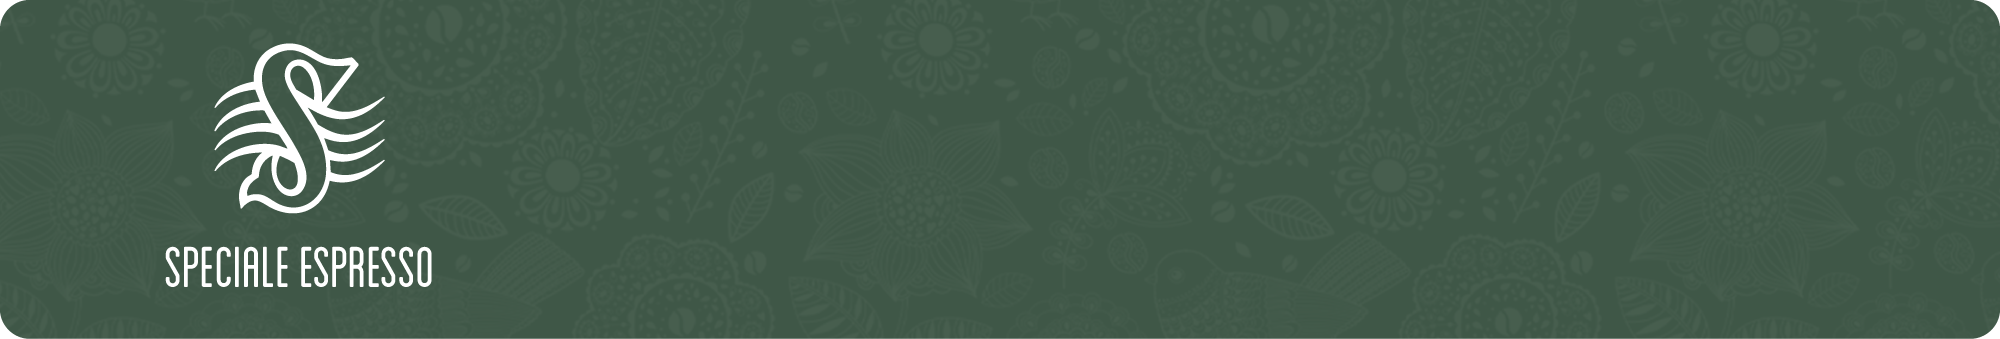
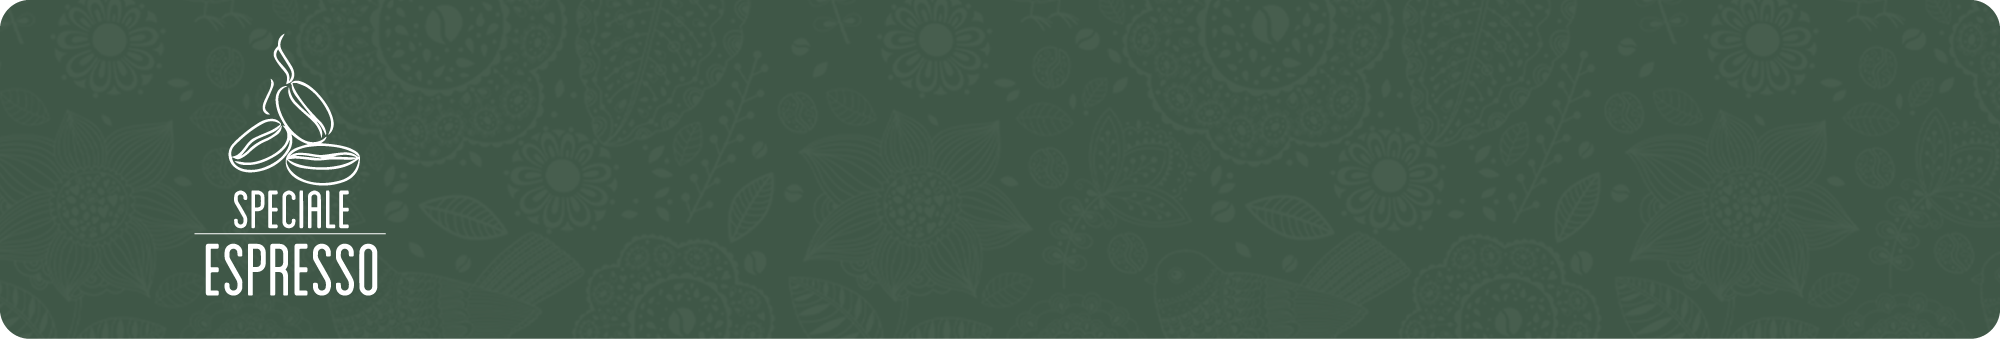
feat: pagina nossos produtos finalizada

Changed region(s): [[0.062, 0.118, 0.217, 0.885]]

diff --git a/apps/frontend/src/pages/(public)/nossosProdutosInfo/index.jsx b/apps/frontend/src/pages/(public)/nossosProdutosInfo/index.jsx
@@ -45,7 +45,7 @@ export default function NossosProdutosInfo() {
             nome:'FAMÍLIA DO SÍTIO',
             textoCabecalho: 'Lorem ipsum dolor sit amet, consectetuer adipiscing elit, sed diam nonummy nibh euismod tincidunt ut laoreet dolore magna aliquam erat volutpat. Ut wisi enim ad minim veniam, quis nostrud exerci tation ullamcorper suscipit lobortis nisl ut aliquip ex ea commodo consequat.',
             imgCabecalho: imagemCafeFamiliaSitioConteiner,
-            textoImgCabecalho: 'Lorem ipsum dolor sit amet, consectetuer adipiscing elit, sed diam nonummy nibh euismod tincidunt ut laoreet dolore magna aliquam erat volutpat. Ut wisi enim ad minim veniam, quis nostrud exerci tation ullamcorper suscipit lobortis nisl ut aliquip ex ea commodo consequat.',
+            textoImgCabecalho: 'Lorem ipsum dolor sit amet, consectetuer adipiscing elit, sed diam nonummy nibh euismod tincidunt ut laoreet dolore magna',
             produtos: [
                 {
                     img: imagemCafeFamiliaSitioIcone,
@@ -111,7 +111,7 @@ export default function NossosProdutosInfo() {
             nome:' SPECIALE ESPRESSO',
             textoCabecalho: 'Lorem ipsum dolor sit amet, consectetuer adipiscing elit, sed diam nonummy nibh euismod tincidunt ut laoreet dolore magna aliquam erat volutpat. Ut wisi enim ad minim veniam, quis nostrud exerci tation ullamcorper suscipit lobortis nisl ut aliquip ex ea commodo consequat.',
             imgCabecalho: imagemCafeSpecialeConteiner,
-            textoImgCabecalho: 'Lorem ipsum dolor sit amet, consectetuer adipiscing elit, sed diam nonummy nibh euismod tincidunt ut laoreet dolore magna aliquam erat volutpat. Ut wisi enim ad minim veniam, quis nostrud exerci tation ullamcorper suscipit lobortis nisl ut aliquip ex ea commodo consequat.',
+            textoImgCabecalho: 'Lorem ipsum dolor sit amet, consectetuer adipiscing elit, sed diam nonummy nibh euismod tincidunt ut laoreet dolore magna',
             produtos: [
                 {
                     img: imagemCafeSpecialeRegulare,
@@ -162,7 +162,8 @@ export default function NossosProdutosInfo() {
             nome:'ASSUM PRETO',
             textoCabecalho: 'Lorem ipsum dolor sit amet, consectetuer adipiscing elit, sed diam nonummy nibh euismod tincidunt ut laoreet dolore magna aliquam erat volutpat. Ut wisi enim ad minim veniam, quis nostrud exerci tation ullamcorper suscipit lobortis nisl ut aliquip ex ea commodo consequat.',
             imgCabecalho: imagemCafeAssumPretoConteiner,
-            textoImgCabecalho: 'Lorem ipsum dolor sit amet, consectetuer adipiscing elit, sed diam nonummy nibh euismod tincidunt ut laoreet dolore magna aliquam erat volutpat. Ut wisi enim ad minim veniam, quis nostrud exerci tation ullamcorper suscipit lobortis nisl ut aliquip ex ea commodo consequat.',
+            istextoImgCabecalhoBlack: true,
+            textoImgCabecalho: 'Lorem ipsum dolor sit amet, consectetuer adipiscing elit, sed diam nonummy nibh euismod tincidunt ut laoreet dolore magna',
             produtos: [
                 {
                     img: imagemCafeAssumPretoIcone,
@@ -226,7 +227,7 @@ export default function NossosProdutosInfo() {
 
             <ImagemContainer id="imagem-1">
                 <Container>
-                    <TextoDescricao style={{ color: "white" }}>
+                    <TextoDescricao style={{color: conteudoPagina.istextoImgCabecalhoBlack ? 'black': 'white'}}>
                         {conteudoPagina.textoImgCabecalho}
                     </TextoDescricao>
                     <img

diff --git a/apps/frontend/src/pages/(public)/nossosProdutos/index.jsx b/apps/frontend/src/pages/(public)/nossosProdutos/index.jsx
@@ -2,14 +2,11 @@ import Paginacao from "../../../components/Paginacao";
 import ImgContent from "./ImgContent";
 import { Title, Text, DivContainer, DivContainerEncontreNossosProdutos, DivContainerSelosABIC, ImagemSelosABIC, DivContainerTitleSelosABIC, TextSelosABIC } from "./styled";
 
-import imagemCafeAssumPretoConteiner from "../../../assets/DetalhesNossosProdutos/NossosProdutos_assumpreto_1.png";
-import imagemCafeAssumPretoIcone from "../../../assets/DetalhesNossosProdutos/NossosProdutos_assumpreto_2.png";
+import imagemCafeAssumPretoConteiner from "../../../assets/DetalhesNossosProdutos/Nossos-Produtos_assumnovo.png";
 
-import imagemCafeFamiliaSitioConteiner from "../../../assets/DetalhesNossosProdutos/NossosProdutos_familiadositio_1.png";
-import imagemCafeFamiliaSitioIcone from "../../../assets/DetalhesNossosProdutos/NossosProdutos_familiadositio_2.png";
+import imagemCafeFamiliaSitioConteiner from "../../../assets/DetalhesNossosProdutos/NossosProdutos_familiadositio_1novo.png";
 
-import imagemCafeSpecialeConteiner from "../../../assets/DetalhesNossosProdutos/NossosProdutos_speciale_1.png";
-import imagemCafeSpecialeIcone from "../../../assets/DetalhesNossosProdutos/NossosProdutos_speciale_5.png";
+import imagemCafeSpecialeConteiner from "../../../assets/DetalhesNossosProdutos/Nossos-Produtos_specialenovo.png";
 
 import imagemSelosDaABIC from "../../../assets/DetalhesNossosProdutos/NossosProdutosSelosABIC_4.png";
 
@@ -35,7 +32,6 @@ export default function NossosProdutos() {
                 text="Lorem ipsum dolor sit amet, consectetuer adipiscing elit, sed diam nonummy nibh euismod  tincidunt ut laoreet dolore magna"
                 buttonText="Conheça a linha Família do Sítio"
                 backgroundImage={imagemCafeFamiliaSitioConteiner}
-                iconImage={imagemCafeFamiliaSitioIcone}
             >
             </ImgContent>
 
@@ -45,7 +41,6 @@ export default function NossosProdutos() {
                 text="Lorem ipsum dolor sit amet, consectetuer adipiscing elit, sed diam nonummy nibh euismod  tincidunt ut laoreet dolore magna"
                 buttonText="Conheça a linha Speciale Espresso"
                 backgroundImage={imagemCafeSpecialeConteiner}
-                iconImage={imagemCafeSpecialeIcone}
             >
             </ImgContent>
 
@@ -54,7 +49,6 @@ export default function NossosProdutos() {
                 text="Lorem ipsum dolor sit amet, consectetuer adipiscing elit, sed diam nonummy nibh euismod  tincidunt ut laoreet dolore magna"
                 buttonText="Conheça a linha Assum Preto"
                 backgroundImage={imagemCafeAssumPretoConteiner}
-                iconImage={imagemCafeAssumPretoIcone}
                 textColor="black"
             >
             </ImgContent>

diff --git a/apps/frontend/src/pages/(public)/nossosProdutos/ImgContent/styled.js b/apps/frontend/src/pages/(public)/nossosProdutos/ImgContent/styled.js
@@ -49,7 +49,7 @@ export const ImagemContainer = styled.div`
 
 export const BotaoSobreposto = styled.button`
   position: absolute;
-  top: 30%; /* Posiciona no meio vertical */
+  top: 47%; /* Posiciona no meio vertical */
   left: 43%; /* Posiciona no meio horizontal */
   transform: translate(-50%, 110%); /* Corrige para centralizar exatamente */
   background-color: white;
@@ -73,7 +73,7 @@ export const BotaoSobreposto = styled.button`
 
   @media (max-width: 684px) {
     margin-top: 3.5vh;
-    top: 1vh;
+    top: 1.5vh;
     height: 20px;
     width: 29vw;
   }
@@ -93,17 +93,17 @@ export const BotaoSobreposto = styled.button`
   @media (max-width: 400px) {
     margin-top: 1vw;
     height: 20px;
+    top: 30%;
     width: 29vw;
   }
 `;
 
 export const TextoDescricao = styled.button`
   position: absolute;
-  color: white;
-  top: 25px;
+  top: 50px;
   left: 27%;
   width: 45%;
-  font-size: 1.2vw;
+  font-size: 1.5vw;
   font-weight: normal;
   border: none;
   text-align: left;
@@ -111,7 +111,7 @@ export const TextoDescricao = styled.button`
 
   @media (max-width: 768px) {
     left: 22%;
-    top: 15px;
+    top: 20px;
   }
 
 `;

diff --git a/apps/frontend/src/pages/(public)/nossosProdutosInfo/styled.js b/apps/frontend/src/pages/(public)/nossosProdutosInfo/styled.js
@@ -6,6 +6,12 @@ export const Title = styled.h1`
   justify-content: space-between;
   color: #2B674B;
   margin: 2;
+  font-family: "Impact";
+  font-weight: normal;
+
+  @media (max-width: 768px) {
+    font-size: 1.4rem;
+  }
 `;
 
 export const Text = styled.div`
@@ -246,11 +252,11 @@ export const BotaoSobreposto = styled.button`
 export const TextoDescricao = styled.button`
   position: absolute;
   color: white;
-  top: 25px;
-  left: 27%;
+  top: 40px;
+  left: 35%;
   width: 45%;
-  font-size: 1.2vw;
-  font-weight: normal;
+  font-size: 1.9vw;
+  font-weight: 500;
   border: none;
   text-align: left;
   background-color: initial;

diff --git a/apps/frontend/src/pages/(public)/nossosProdutos/ImgContent/index.jsx b/apps/frontend/src/pages/(public)/nossosProdutos/ImgContent/index.jsx
@@ -19,7 +19,6 @@ export default function ImgContent(props) {
                         </BotaoSobreposto>
                     </Link> 
                     <img className="img-background" src={props.backgroundImage} alt="Background image" />
-                    <img className="img-icon" src={props.iconImage} alt="Icone saco cafe" />
                 </Container>
             </ImagemContainer>
         </>
